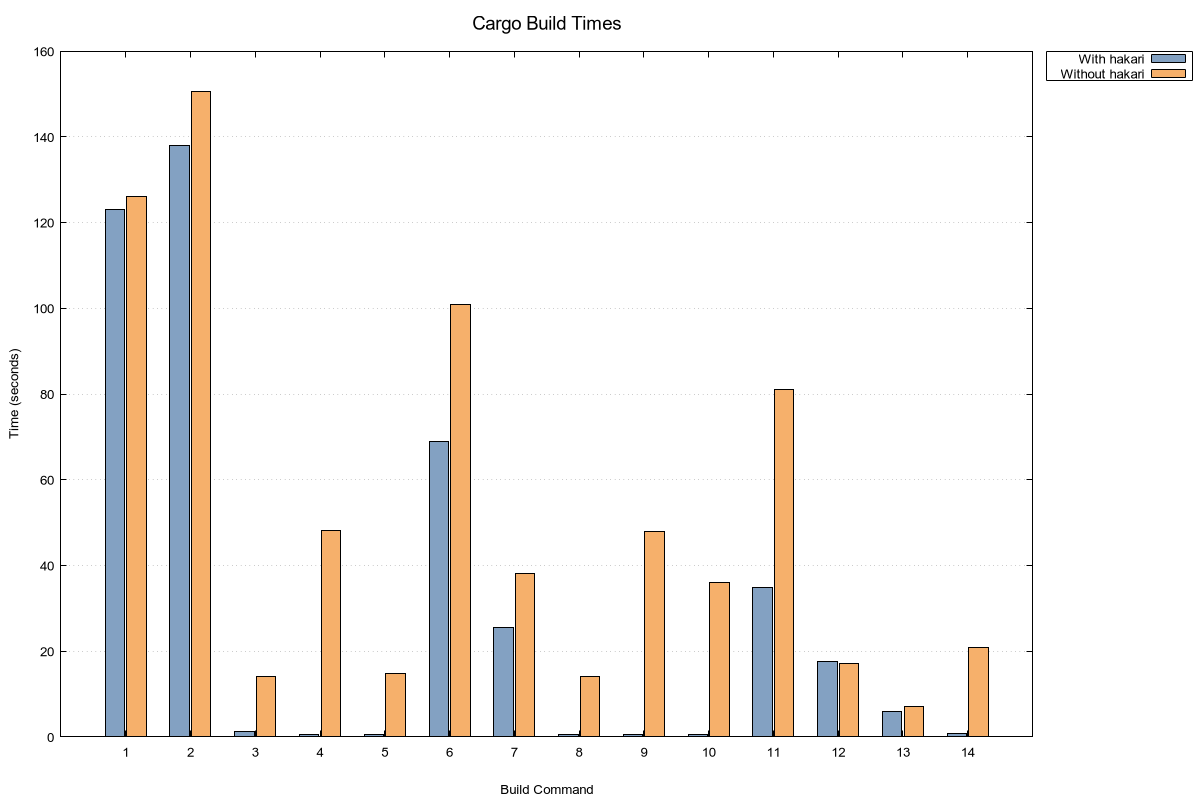
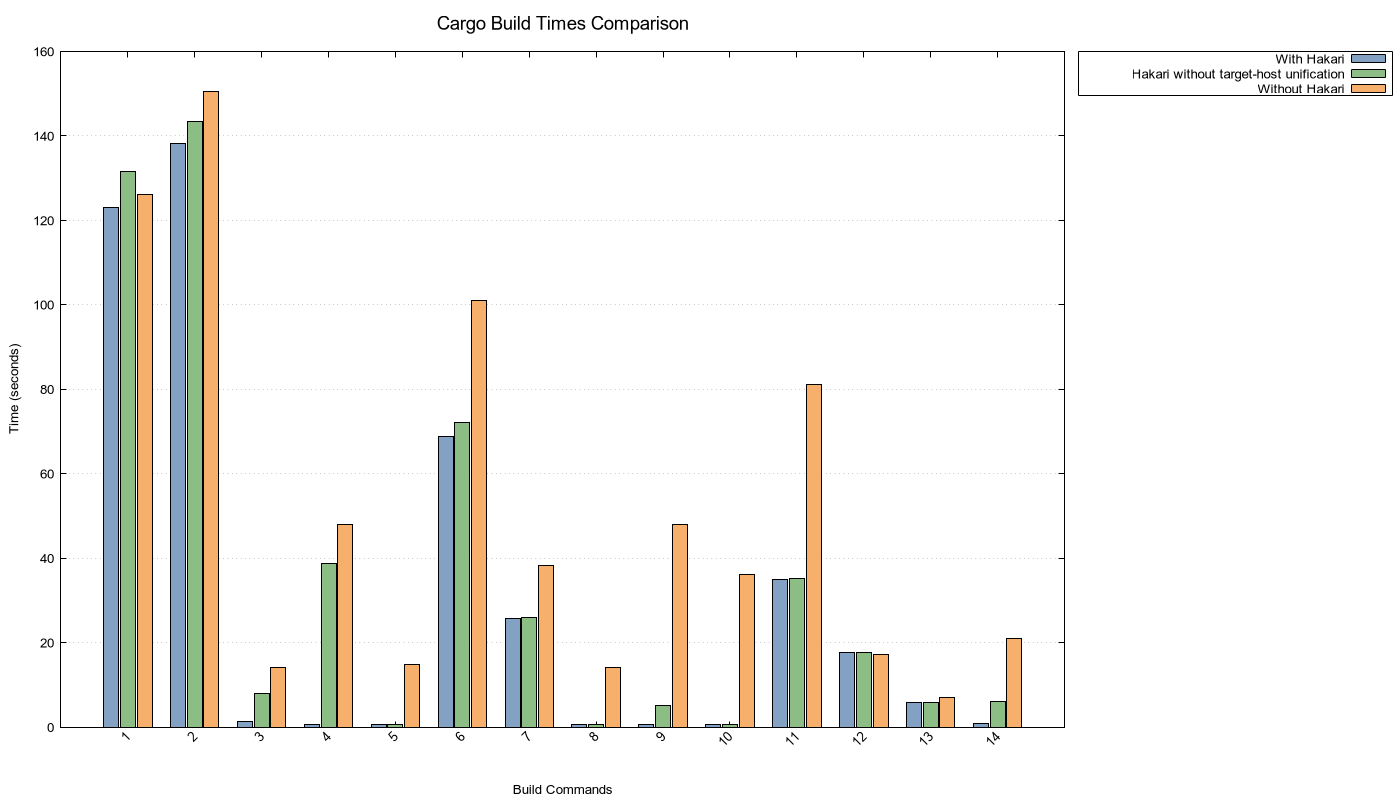
add dataset for hakari without target-host unification

diff --git a/README.md b/README.md
@@ -29,20 +29,32 @@ git clone https://github.com/oxidecomputer/omicron
 cd omicron
 git checkout f0b804818b898bebdb317ac2b000618944c02457
 cargo xtask download all
-cargo clean
 ```
 
-Omicron comes with hakari configured. To test without hakari, run:
+Three datasets are gathered:
 
-```
-cargo install --locked cargo-hakari
-cargo hakari disable
-cargo clean
-```
+1. **With hakari**: Omicron comes with hakari configured, so no extra work needs to be done.
+2. **Hakari without target-host unification**: This is the current proposal in RFC 3692: unify
+   features separately for target and host platforms, but don't unify features across both.
+
+   To test this option out, edit `.config/hakari.toml` and add `unify-target-host = "none"` to the
+   start of the file.
+
+   See [`UnifyTargetHost`](https://docs.rs/hakari/0.17.4/hakari/enum.UnifyTargetHost.html) for more
+   information.
+
+3. **Without hakari**: To test without hakari, run:
+
+   ```
+   cargo install --locked cargo-hakari
+   cargo hakari disable
+   ```
 
 ## Commands run
 
 The following commands were run as part of the test. This is a pretty representative sample of commands I've run against my repository in the last week.
+
+Before each series of commands, `cargo clean` was run.
 
 1. `cargo build`
 2. `cargo build --all-targets`
@@ -65,7 +77,8 @@ See [`input_data.txt`](input_data.txt).
 
 - The first column is the command index, above.
 - The second column is wall-clock time in seconds with hakari.
-- The third column is wall-clock time in seconds without hakari.
+- The third column is wall-clock time in seconds with hakari, but without target-host unification.
+- The fourth column is wall-clock time in seconds without hakari.
 
 ### Charts
 
@@ -82,18 +95,25 @@ Chart of cumulative build times, generated by [`plot_cumulative.gnu`](plot_cumul
 The size of `target/debug` after all of the above commands have been run can indicate how many extra builds occurred.
 
 - With hakari, `target/debug` is 55GB after all of the above commands.
+- With hakari but without target-host unification, `target/debug` is 59GB.
 - Without hakari, `target/debug` is 78GB.
 
 ## Summary
 
-The cumulative time spent without cargo-hakari is roughly 717 seconds, and with hakari is roughly
-418 seconds. This is a roughly 1.7x speedup.
+The cumulative time spent is:
+
+- **With hakari:** 418 seconds
+- **Hakari without target-host unification:** 492 seconds
+- **Without hakari**: 717 seconds
+
+With hakari, this is a roughly 1.7x speedup. With hakari but without target-host unification, this is roughly a 1.5x improvement -- still substantial, but less so than otherwise.
 
 Hakari feels even faster than that, though, because a number of the builds with it are no-ops (take
 less than a second).
 
-The build size on disk sees a roughly 1.4x improvement, which means less I/O, less wear on the disk,
-and less of a need to run `cargo clean` -- which also improves build times in the aggegrate.
+The build size on disk with hakari (with or without target-host unification) sees a roughly 1.4x
+improvement. This means less I/O, less wear on the disk, and less of a need to run `cargo clean` --
+which also improves build times in the aggegrate.
 
 ## License
 
